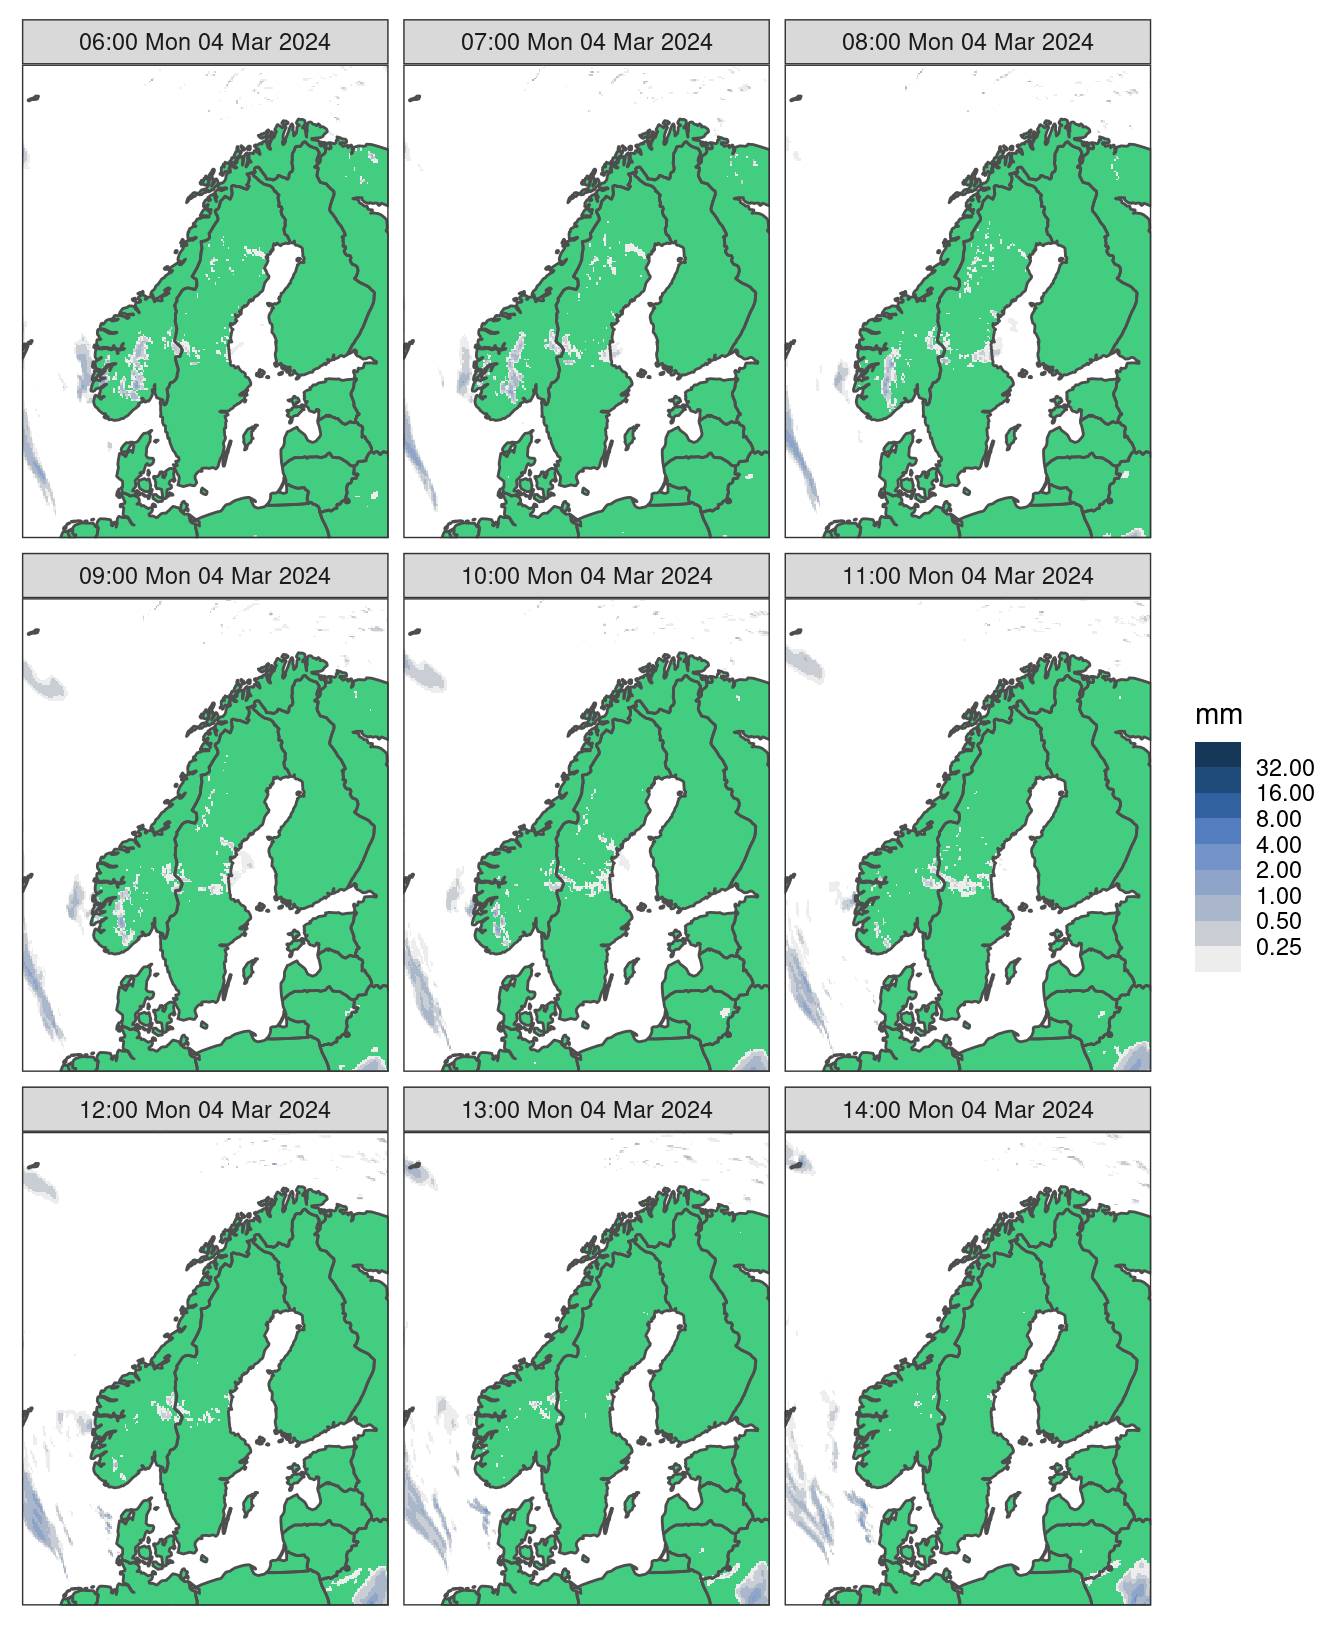
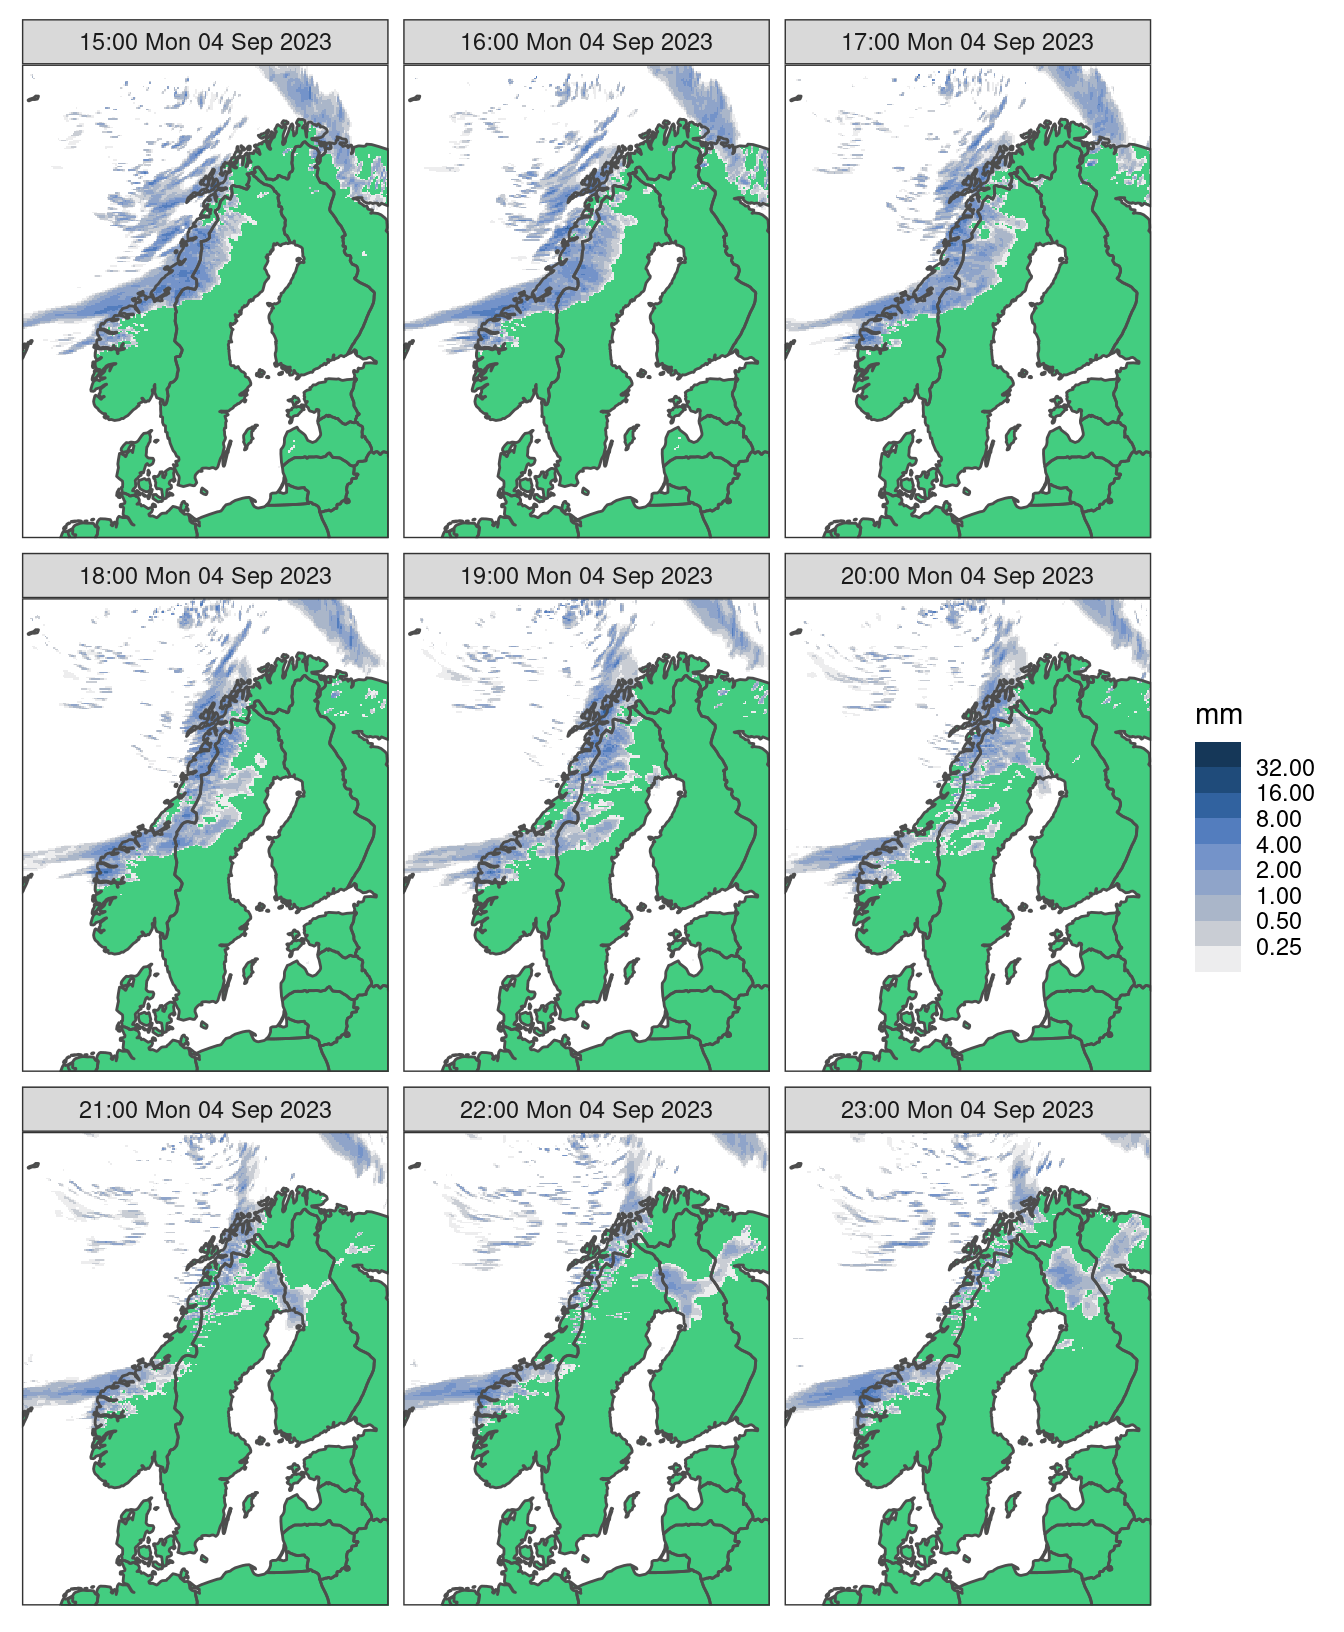
new dates for thredds data

diff --git a/_site/plot-manipulate-spatial.html b/_site/plot-manipulate-spatial.html
@@ -787,7 +787,7 @@ Tip: Higher resolution maps
 <p>High resolution plots can be quite slow - let’s read some high resolution data from MET Norway’s thredds server (here we have to tell <code>read_forecast()</code> that the file format is NetCDF)</p>
 <div class="cell">
 <div class="sourceCode cell-code" id="cb40"><pre class="sourceCode r code-with-copy"><code class="sourceCode r"><span id="cb40-1"><a href="#cb40-1" aria-hidden="true" tabindex="-1"></a>hires_pcp <span class="ot">&lt;-</span> <span class="fu">read_analysis</span>(</span>
-<span id="cb40-2"><a href="#cb40-2" aria-hidden="true" tabindex="-1"></a>  <span class="fu">seq_dttm</span>(<span class="dv">2024030406</span>, <span class="dv">2024030414</span>, <span class="st">"1h"</span>),</span>
+<span id="cb40-2"><a href="#cb40-2" aria-hidden="true" tabindex="-1"></a>  <span class="fu">seq_dttm</span>(<span class="dv">2023090415</span>, <span class="dv">2023090423</span>, <span class="st">"1h"</span>),</span>
 <span id="cb40-3"><a href="#cb40-3" aria-hidden="true" tabindex="-1"></a>  <span class="st">"met_analysis"</span>,</span>
 <span id="cb40-4"><a href="#cb40-4" aria-hidden="true" tabindex="-1"></a>  <span class="st">"precipitation_amount"</span>,</span>
 <span id="cb40-5"><a href="#cb40-5" aria-hidden="true" tabindex="-1"></a>  <span class="at">file_path        =</span> <span class="st">"https://thredds.met.no/thredds/dodsC/metpparchive"</span>,</span>
